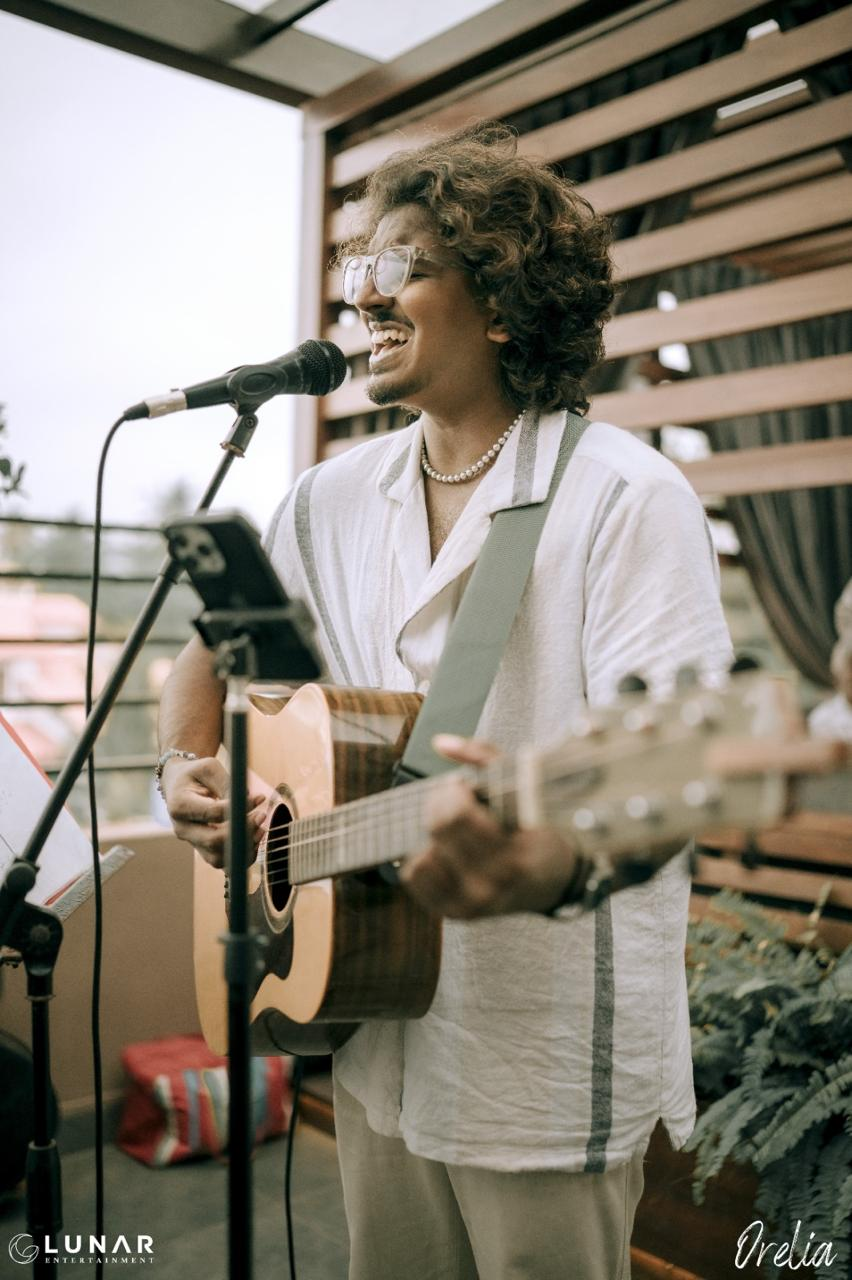
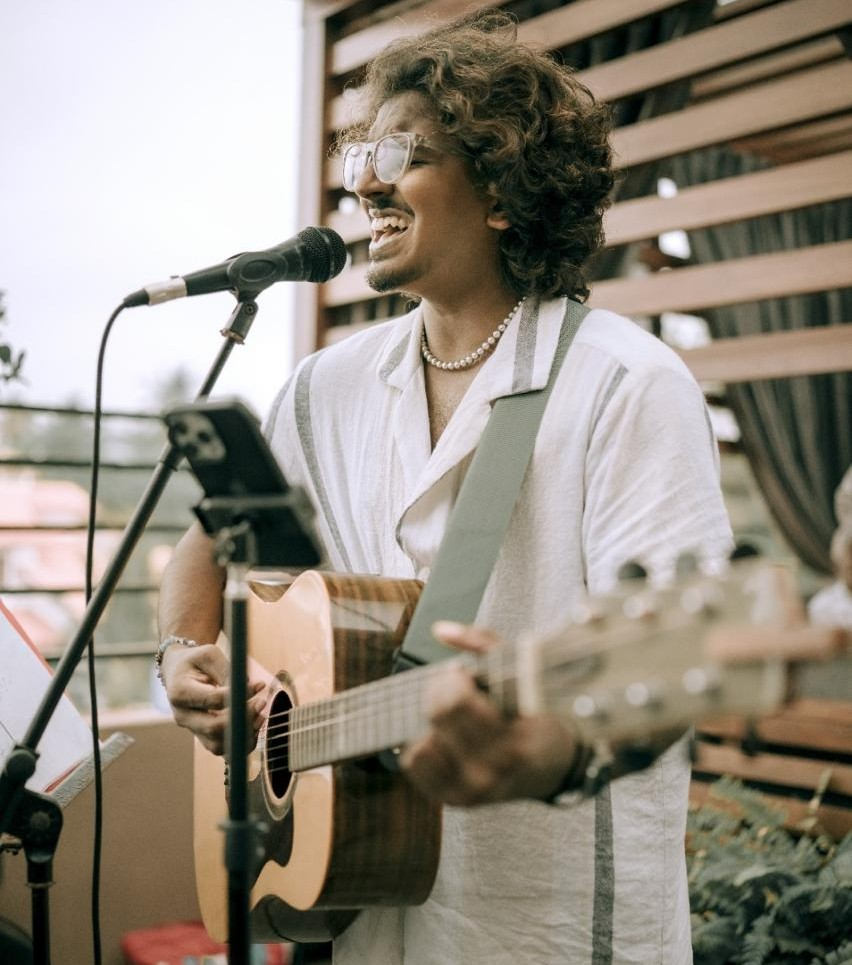
new:gallery finished

diff --git a/src/data/portfolio.ts b/src/data/portfolio.ts
@@ -21,9 +21,9 @@ import applovaLogo from '../assets/images/applova.png';
 import musicPhoto1 from '../assets/images/music/gallery2.jpeg';
 import musicPhoto2 from '../assets/images/music/gallery1.jpeg';
 import musicPhoto3 from '../assets/images/music/gallery7.png';
-import musicPhoto4 from '../assets/images/music/gallery8.jpeg';
+import musicPhoto4 from '../assets/images/music/gallery5.jpeg';
 import musicPhoto5 from '../assets/images/music/gallery6.jpeg';
-import musicPhoto6 from '../assets/images/music/gallery5.jpeg';
+import musicPhoto6 from '../assets/images/music/gallery9.jpeg';
 import musicPhoto7 from '../assets/images/music/gallery10.jpeg';
 import musicPhoto8 from '../assets/images/music/gallery3.jpeg';
 import musicPhoto9 from '../assets/images/music/gallery4.jpeg';
@@ -75,7 +75,6 @@ export type Education = {
 export type GalleryPhoto = {
   src: ImageMetadata;
   alt: string;
-  caption?: string;
   /** Tile shape in the mosaic; defaults to a single square. */
   size?: 'tall' | 'wide';
 };
@@ -280,15 +279,15 @@ export const education: Education[] = [
 export const music = {
   /** Placeholders: swap the files in src/assets/images/music for real photos. */
   gallery: [
-    { src: musicPhoto1, alt: 'Live gig', caption: 'Live gig' },
-    { src: musicPhoto2, alt: 'Performing on stage', caption: 'Performing on stage', size: 'tall' },
-    { src: musicPhoto3, alt: 'Solo set with guitar', caption: 'Solo set with guitar', size: 'wide' },
-    { src: musicPhoto4, alt: 'School brass band', caption: 'School brass band' },
-    { src: musicPhoto5, alt: 'Clarinet', caption: 'Clarinet' },
-    { src: musicPhoto6, alt: 'Classical guitar', caption: 'Classical guitar' },
-    { src: musicPhoto7, alt: 'Music competition', caption: 'Music competition' },
-    { src: musicPhoto8, alt: 'Rehearsal', caption: 'Rehearsal' },
-    { src: musicPhoto9, alt: 'Evening performance', caption: 'Evening performance', size: 'wide' },
+    { src: musicPhoto1, alt: 'Live gig' },
+    { src: musicPhoto2, alt: 'Performing on stage', size: 'tall' },
+    { src: musicPhoto3, alt: 'Solo set with guitar', size: 'wide' },
+    { src: musicPhoto4, alt: 'School brass band' },
+    { src: musicPhoto5, alt: 'Clarinet' },
+    { src: musicPhoto6, alt: 'Classical guitar' },
+    { src: musicPhoto7, alt: 'Music competition' },
+    { src: musicPhoto8, alt: 'Rehearsal' },
+    { src: musicPhoto9, alt: 'Evening performance', size: 'wide' },
   ] satisfies GalleryPhoto[],
   items: [
     {
